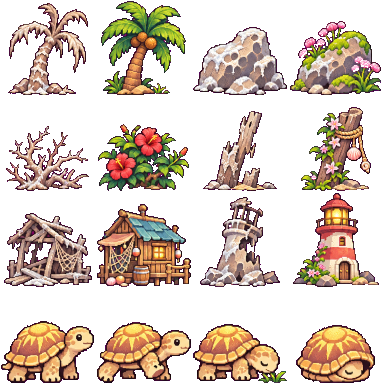
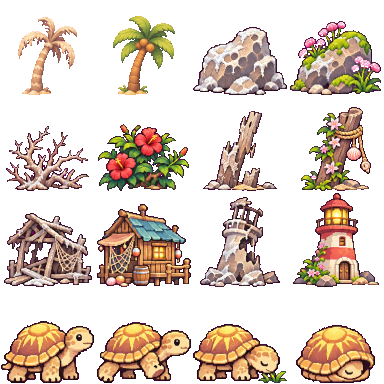
Little Wilds 2 v31: village rivers and bridges, rain cloud, new palm

Changed region(s): [[0.25, 0.0, 0.5, 0.25], [0.0, 0.0, 0.25, 0.25]]

diff --git a/little-wilds-2/index.html b/little-wilds-2/index.html
@@ -16,4 +16,4 @@
  <div class="title-actions"><button class="tbtn primary" data-title="play"><i class="tic" style="--ic:url(assets/ui/icon-play.png)"></i><span id="title-play">Continue</span></button><button class="tbtn" data-title="map"><i class="tic" style="--ic:url(assets/ui/icon-map.png)"></i>Map</button><button class="tbtn" data-title="cards"><i class="tic" style="--ic:url(assets/ui/icon-card.png)"></i>Postcards</button><button class="tbtn" data-title="journal"><i class="tic" style="--ic:url(assets/ui/icon-leaf.png)"></i>Journal</button><button class="tbtn" data-title="settings"><i class="tic" style="--ic:url(assets/ui/icon-gear.png)"></i>Settings</button></div>
 </div><div class="title-records" id="title-records"></div></div>
 <div id="loading" role="status"><strong>Little Wilds 2</strong><span>The valley is waking…</span></div>
-<script type="module" src="game.mjs?v=30"></script></body></html>
+<script type="module" src="game.mjs?v=31"></script></body></html>
